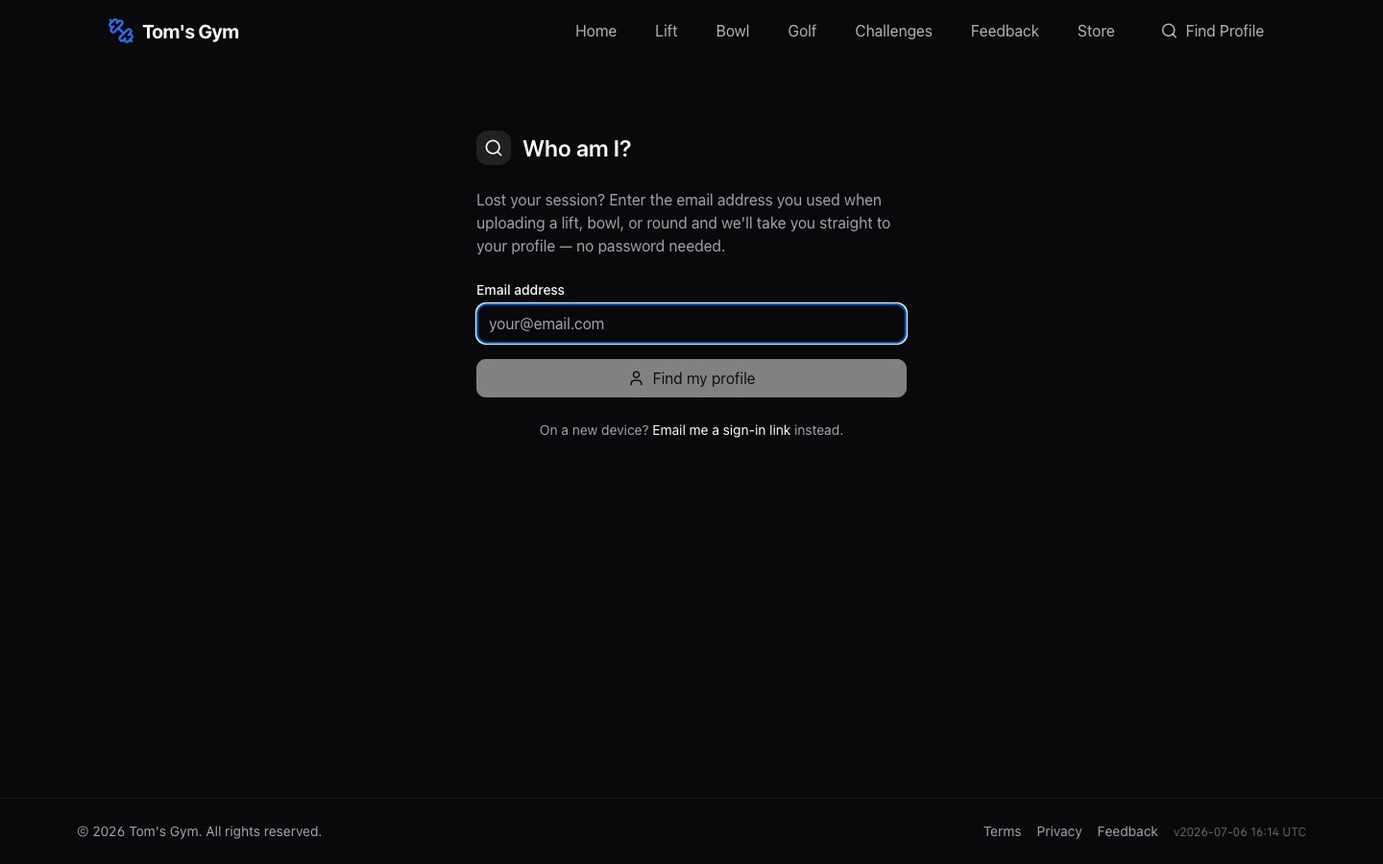
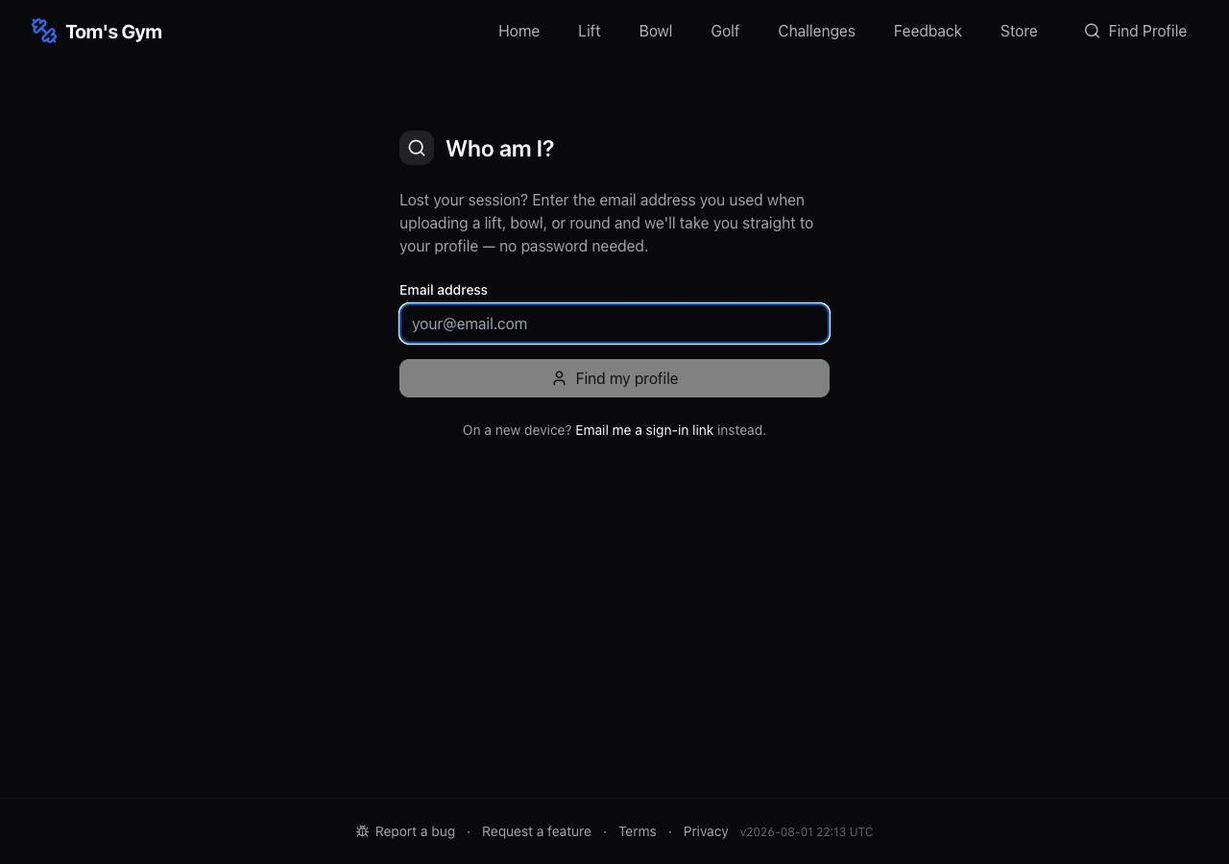
docs(site-map): re-walk production UI on 2026-08-28
Refreshes the 2026-07-06 walk with Playwright captures of every route on
build v2026-08-01, including the pushup challenge, plank steadiness
player, attempt-history accordion, nicknames, champions, and profile tabs.
Adds an observations list of UX inconsistencies found during the walk.

Claude-Session: https://claude.ai/code/session_012iboqMUKF1GY1Dmj7wau93

diff --git a/docs/site-map/README.md b/docs/site-map/README.md
@@ -1,173 +1,146 @@
 # Tom's Gym — Site Walk & Workflow Map
 
-Captured 2026-07-06 against production (`https://my-frontend-quyiiugyoq-ue.a.run.app`, frontend build `v2026-07-06 16:14 UTC`) — **after the UX roadmap shipped** (T1–T16, see `docs/plans/2026-07-06-ux-roadmap.md` and the "UX Roadmap (shipped 2026-07-06)" section of `CLAUDE.md`). Screenshots live in [`screenshots/`](screenshots/); each section links the pages it covers. Earlier revisions of this doc describe the pre-roadmap site — the observations at the bottom that drove the roadmap are now resolved.
+Captured **2026-08-28** against production (`https://my-frontend-quyiiugyoq-ue.a.run.app`, frontend build `v2026-08-01 22:13 UTC`) with Playwright at 1280×900 (plus three 390×844 mobile shots). Screenshots live in [`screenshots/`](screenshots/); each section links the pages it covers. This supersedes the 2026-07-06 walk — everything shipped since (home redesign, plank stats, lift/attempt history, steadiness nicknames, Challenge Champions, Pushup challenge) is reflected below. Feature internals are in `CLAUDE.md`; this doc is the *what a user sees where* view.
 
-> **Post-capture note (2026-08-01):** Challenge Champions shipped after these
-> screenshots were taken. It added **no new routes** — so the route table below
-> is still accurate — but `/` now carries a champion spotlight card, `/profile/:id`
-> a trophy case + champion flair + avatar picker, and `/challenges/:id` a 👑 on the
-> winner's podium chip. See `CLAUDE.md` → "Challenge Champions".
+**Re-capturing:** the walk is a `browser_run_code_unsafe` script that `page.goto`s each route, dumps `h1`/buttons/internal links, and `page.screenshot({fullPage:true})`s into `screenshots/`. Dynamic ids (challenges, videos, profiles) are discovered from the links of the static pages, so the script needs no fixtures.
 
 ## Global Navigation
 
-Every page shares the same navbar and footer:
+Every page shares the same navbar and footer (`components/Layout.tsx`, `Navbar.tsx`):
 
-- **Navbar:** Home `/` · **Lift** `/lift` · **Bowl** `/bowl` · **Golf** `/golf` · Challenges `/challenges` · Feedback `/feedback` · Store `/store` · **Find Profile** (→ full-page `/find-profile`). The three analysis verticals are now top-level hubs; the old bare "Golf → leaderboard" and standalone "Leaderboard" items were folded into the hubs.
-- **Footer:** **Terms** (`/terms`) · **Privacy** (`/privacy`) · Feedback · frontend build stamp (`v2026-07-06 16:14 UTC`). Terms/Privacy are now real pages, not `#` stubs.
+- **Navbar:** Home `/` · Lift `/lift` · Bowl `/bowl` · Golf `/golf` · Challenges `/challenges` · Feedback `/feedback` · Store `/store` · 🔍 Find Profile `/find-profile`. Collapses to a hamburger on mobile ([22](screenshots/22-mobile-home.jpeg)).
+- **Footer:** 🐞 Report a bug · Request a feature (both → `/feedback`) · Terms `/terms` · Privacy `/privacy` · build stamp.
+- **Ambient background** (`AmbientBackground`) is mounted once in `Layout`, so every page shares the doodle wallpaper + drifting glows.
+- Pages that render *without* the Layout chrome: `/signin` (no nav/footer), the bowling annotation workspace (`/bowling/result/:id/annotate` — full-screen tool), and `/does-not-exist`-style 404s (bare "404" + Home link).
 
 ## Route Table (from `frontend/src/routes/index.tsx`)
 
-| Route | Component | Captured |
-|---|---|---|
-| `/` | Index (analysis-first landing) | [01](screenshots/01-home.jpeg) |
-| `/lift` · `/bowl` · `/golf` | LiftHub / BowlHub / GolfHub | [24](screenshots/24-lift-hub.jpeg) · [25](screenshots/25-bowl-hub.jpeg) · [26](screenshots/26-golf-hub.jpeg) |
-| `/upload` | UploadChooser ("What are you analyzing?") | [27](screenshots/27-upload-chooser.jpeg) |
-| `/lift/upload` (`/upload/lift` → redirect) | UploadVideo | [06](screenshots/06-upload-video.jpeg) |
-| `/lift/status/:attemptId` · `/bowling/status/:attemptId` | AnalysisStatus (poll + ETA) | — (live only during processing) |
-| `/challenges` | Challenges | [02](screenshots/02-challenges.jpeg) |
-| `/challenges/:id` | ChallengeDetail (podium fixed) | [03](screenshots/03-challenge-detail.jpeg) |
-| `/challenges/:id/videos` | ChallengeVideos | — |
-| `/challenges/:id/upload` | UploadVideo | [06](screenshots/06-upload-video.jpeg) |
-| `/challenges/:id/participants/:pid/video/:vid` | VideoPlayer (coaching copy + share) | [04](screenshots/04-video-player.jpeg) |
-| `/video-player/:id/:pid/:vid` | VideoPlayerRedirect | — (legacy redirect) |
-| `/s/:code` | ShortLinkRedirect (SPA) / backend OG-meta route | — |
-| `/about` | About | [18](screenshots/18-about.jpeg) |
-| `/leaderboard` | Leaderboard | [05](screenshots/05-leaderboard.jpeg) |
-| `/store` | Store ("coming soon") | [17](screenshots/17-store.jpeg) |
-| `/profile` · `/profile/:id` | Profile (unified Lift/Bowl/Golf hub) | [20](screenshots/20-user-profile.jpeg) |
-| `/find-profile` | FindProfilePage ("Who am I?") | [19](screenshots/19-find-profile-page.jpeg) |
-| `/signin` · `/auth/magic/:token` | SignIn / MagicLink (passwordless) | [28](screenshots/28-signin.jpeg) |
-| `/profile/:id/weekly-lifts` | WeeklyLifts | — |
-| `/auth/callback` · `/auth/error` | AuthCallback / AuthError | — |
-| `/bowling/upload[/:competitionId]` | BowlingUpload | [09](screenshots/09-bowling-upload.jpeg) |
-| `/bowling/result/:attemptId` | BowlingResult (consumer-first, debug behind Advanced) | [08](screenshots/08-bowling-result.jpeg) |
-| `/bowling/result/:attemptId/annotate` | AnnotationWorkspace | [10](screenshots/10-bowling-annotate.jpeg) |
-| `/bowling/challenge/:id` | BowlingChallenge | [07](screenshots/07-bowling-challenge.jpeg) |
-| `/golf/upload` | GolfUpload | [12](screenshots/12-golf-upload.jpeg) |
-| `/golf/review/:roundId` | GolfReview | — (only right after upload) |
-| `/golf/round/:roundId` | GolfRound (share button) | — |
-| `/golf/profile[/:userId]` | GolfProfile (links to unified hub) | [13](screenshots/13-golf-profile.jpeg), [14](screenshots/14-golf-profile-round-expanded.jpeg) |
-| `/golf/leaderboard` | GolfLeaderboard (monthly-delta pill) | [11](screenshots/11-golf-leaderboard.jpeg) |
-| `/feedback` | FileTicket | [15](screenshots/15-feedback-form.jpeg) |
-| `/feedback/list` | TicketList | [16](screenshots/16-feedback-list.jpeg) |
-| `/terms` · `/privacy` | Terms / Privacy | [29](screenshots/29-terms.jpeg) · [30](screenshots/30-privacy.jpeg) |
-| `*` | NotFound | — |
-
-`/athletes` was **removed** (it rendered mock data — deleted with the honest-copy pass).
+| Route | Component | What's there | Captured |
+|---|---|---|---|
+| `/` | Index | hero → DemoLoop → champion spotlight → 3 IconTiles → Open challenges strip | [01](screenshots/01-home.jpeg) · [22 mobile](screenshots/22-mobile-home.jpeg) |
+| `/lift` · `/bowl` · `/golf` | LiftHub / BowlHub / GolfHub | primary Upload CTA + RowCard secondary links | [24](screenshots/24-lift-hub.jpeg) · [25](screenshots/25-bowl-hub.jpeg) · [26](screenshots/26-golf-hub.jpeg) |
+| `/upload` | UploadChooser | "What are you analyzing?" — same 3 tiles as home | [27](screenshots/27-upload-chooser.jpeg) |
+| `/lift/upload` (`/upload/lift` redirects) | UploadVideo | email · lift type (Squat/Bench/Deadlift/Pushup) · weight · video | [06](screenshots/06-upload-video.jpeg) |
+| `/lift/status/:attemptId` · `/bowling/status/:attemptId` | AnalysisStatus | "Queued for analysis" poll page; unknown id = queued state | [44](screenshots/44-lift-status-404.jpeg) · [43](screenshots/43-bowling-status-404.jpeg) |
+| `/challenges` | Challenges | Create Challenge · "Open now" RowCard strip · All challenges + pill filters | [02](screenshots/02-challenges.jpeg) |
+| `/challenges/:id` | ChallengeDetail | podium · chips (👑, nickname, `N attempts ▾`) · "Everyone else" table · YOU row | pushup [03](screenshots/03-challenge-detail-pushup.jpeg) · plank [34](screenshots/34-challenge-detail-a0f2.jpeg) · weight w/ attempts expanded [32](screenshots/32-challenge-detail-plank.jpeg) · [33](screenshots/33-challenge-detail-857f.jpeg) · [47 mobile](screenshots/47-mobile-challenge-pushup.jpeg) |
+| `/challenges/:id/videos` | ChallengeVideos | flat grid of every attempt ("Plank - 60.00kg · date · completed") | [35](screenshots/35-challenge-videos.jpeg) |
+| `/challenges/:id/upload` | UploadVideo | same form, "Back to Challenge" | [36](screenshots/36-challenge-upload.jpeg) |
+| `/challenges/:id/participants/:pid/video/:vid` | VideoPlayer | Original/Annotated · grade · per-lift result body · Share · Re-analyze | plank [04](screenshots/04-video-player.jpeg) · pushup [48](screenshots/48-video-player-pushup.jpeg) · pending [37](screenshots/37-video-player-plank.jpeg) · [23 mobile](screenshots/23-mobile-video-player.jpeg) |
+| `/video-player/:id/:pid/:vid` | VideoPlayerRedirect | legacy → route above | — |
+| `/s/:code` | ShortLinkRedirect | share-link resolver (backend `/s/<code>` serves OG cards to crawlers) | — |
+| `/leaderboard` | Leaderboard | global lifting board, Total/Squat/Bench/Deadlift pills | [05](screenshots/05-leaderboard.jpeg) |
+| `/profile` · `/profile/:id` | Profile | header (avatar, 👑 title) · Trophy case · Lift/Bowl/Golf tabs | [20](screenshots/20-user-profile.jpeg) · [38](screenshots/38-user-profile-bowl-tab.jpeg) · [39](screenshots/39-user-profile-golf-tab.jpeg) · no-id [46](screenshots/46-profile-noid.jpeg) |
+| `/profile/:id/weekly-lifts` | WeeklyLifts | manual weekly-max tracker + chart (empty for most users) | [40](screenshots/40-weekly-lifts.jpeg) |
+| `/find-profile` | FindProfilePage | "Who am I?" email lookup, link to `/signin` | [19](screenshots/19-find-profile-page.jpeg) |
+| `/signin` · `/auth/magic/:token` | SignIn / MagicLink | request / consume magic link | [28](screenshots/28-signin.jpeg) |
+| `/auth/callback` · `/auth/error` | AuthCallback / AuthError | OAuth remnants | — |
+| `/bowling/upload` (`/:competitionId`) | BowlingUpload | email + video | [09](screenshots/09-bowling-upload.jpeg) |
+| `/bowling/challenge/:id` | BowlingChallenge | "All Submissions" cards (board, % detected) | [07](screenshots/07-bowling-challenge.jpeg) |
+| `/bowling/result/:attemptId` | BowlingResult | Entry Board / Pocket / Speed / Hook · Ball Path · Annotate CTA · Advanced | [08](screenshots/08-bowling-result.jpeg) |
+| `/bowling/result/:attemptId/annotate` | AnnotationWorkspace | frame-by-frame ball marking, keyboard-driven | [10](screenshots/10-bowling-annotate.jpeg) |
+| `/golf/upload` · `/golf/snap` | GolfUpload (`autoCamera` on snap) | email + scorecard photo ("Upload from library" / "Capture photo") | [12](screenshots/12-golf-upload.jpeg) · [45](screenshots/45-golf-snap.jpeg) |
+| `/golf/review/:roundId` | GolfReview | OCR review → confirm → HandicapResultCard | — (needs a fresh upload) |
+| `/golf/round/:roundId` | GolfRound | round detail + Share | — (no inbound link on the walked pages; rounds expand inline on the golf profile) |
+| `/golf/leaderboard` | GolfLeaderboard | handicap rows + monthly ▲/▼ pill | [11](screenshots/11-golf-leaderboard.jpeg) |
+| `/golf/profile/:userId` (`/golf/profile` no-id) | GolfProfile | handicap / best diff / last round · expandable round rows | [13](screenshots/13-golf-profile.jpeg) · [42](screenshots/42-golf-profile-noid.jpeg) |
+| `/feedback` · `/feedback/list` | FileTicket / TicketList | bug/feature form · public triage list | [15](screenshots/15-feedback-form.jpeg) · [16](screenshots/16-feedback-list.jpeg) |
+| `/store` · `/about` · `/terms` · `/privacy` | static | | [17](screenshots/17-store.jpeg) · [18](screenshots/18-about.jpeg) · [29](screenshots/29-terms.jpeg) · [30](screenshots/30-privacy.jpeg) |
+| `*` | NotFound | bare "404" | [31](screenshots/31-not-found.jpeg) |
 
 ## Workflows
 
-### 0. First run — pick a vertical, upload, get analysis
+### 0. Entry — home → vertical → upload → status → result
 
 ```mermaid
 flowchart LR
-    H["/ landing\n'Get AI analysis of your lift, bowl, or round'"] --> HUB["/lift · /bowl · /golf\nhub: Upload CTA + leaderboard/recent"]
-    H --> CH["/upload\n'What are you analyzing?'"]
-    HUB --> UP[vertical upload flow]
-    CH --> UP
-    UP -->|processing| ST["/lift/status/:id · /bowling/status/:id\nlive poll + honest ETA + 'we'll email you'"]
-    ST -->|complete| RES[result page]
-    ST -.->|email on complete| MAIL["'Your analysis is ready' + short link /s/:code"]
+    H["/ hero + DemoLoop\n(plank → bowl → scorecard loop)"] --> SP["Champion spotlight\n👑 wonder725 · View profile / Watch the win"]
+    H --> T["3 IconTiles: Lift · Bowl · Golf"]
+    H --> OC["OPEN CHALLENGES strip\n(RowCard per ongoing challenge)"]
+    T --> HUB["/lift · /bowl · /golf hubs"]
+    HUB --> UP["/lift/upload · /bowling/upload · /golf/snap"]
+    UP -->|video| ST["/lift/status/:id · /bowling/status/:id\n'Queued for analysis' · ETA · 'we'll email you'"]
+    ST --> RES[result page]
 ```
 
-- The landing page ([01](screenshots/01-home.jpeg)) now leads with the analysis value prop and three feature cards (Lift / Bowl / Golf) using real annotated-output imagery; challenges are demoted to a lower section.
-- Each hub ([24](screenshots/24-lift-hub.jpeg) · [25](screenshots/25-bowl-hub.jpeg) · [26](screenshots/26-golf-hub.jpeg)) leads with an Upload CTA and links the vertical's leaderboard / recent / challenges.
-- `/upload` ([27](screenshots/27-upload-chooser.jpeg)) is an IA chooser routing to the three (still separate) upload flows.
-- After an upload the user lands on a **status page** (AnalysisStatus) that polls the existing per-attempt result endpoint (404 = queued), shows an honest ETA ("usually ~2 min; long videos up to 10 min"), and survives reload. On completion the backend emails the uploader a short link (skips bot/test users; never blocks completion on SMTP failure).
+- Home ([01](screenshots/01-home.jpeg)) is the quiet-gym redesign: centered column, no photos. Order top→bottom: hero copy → 12s DemoLoop card with 3 dots → champion spotlight card (gold border) → three IconTiles → "OPEN CHALLENGES" strip → "All challenges →".
+- **As of this build the three home tiles link straight to the upload flows** (`/lift/upload`, `/bowling/upload`, `/golf/snap`), while the navbar's Lift/Bowl/Golf go to the hubs. Changed 2026-08-28 (uncommitted at capture time): tiles now go to `/lift` · `/bowl` · `/golf` so both paths land on the same hub. `/upload` ([27](screenshots/27-upload-chooser.jpeg)) still links straight to the upload pages.
+- Hubs ([24](screenshots/24-lift-hub.jpeg)–[26](screenshots/26-golf-hub.jpeg)): one primary CTA + RowCards — Lift: Upload a lift · Leaderboard (+ "Plank challenge" when one is ongoing; none was); Bowl: Upload only; Golf: Snap scorecard · Leaderboard · My golf profile.
+- Status page ([44](screenshots/44-lift-status-404.jpeg)) renders the queued state for any id, including unknown ones (404 from the result endpoint = "in line"), so a bad link never errors — it just polls forever.
 
-### 1. Lifting upload → analysis → video player
+### 1. Lifting: upload → video player
+
+- Upload ([06](screenshots/06-upload-video.jpeg)): email ("No account needed"), lift type select now includes **Pushup**; weight field hides for Plank/Pushup.
+- Player shows a different body per lift type:
+  - **Plank** ([04](screenshots/04-video-player.jpeg)): grade · steadiness score + personality badge (e.g. "Jelly — Chaos, but you held on.") · **Steadiness-over-time chart** (state bands Holding/Settling/Lost you, "tap to jump the video") · Holds strip ("3 runs, longest 273s") · stat tiles (total held, form %, longest unbroken, plank style, pose detection, body line).
+  - **Pushup** ([48](screenshots/48-video-player-pushup.jpeg)): grade + "39 reps detected" · one **SET BREAKDOWN** card (Depth / Control / Elbow Flare / Body Line / Tempo with avg vs target and ▸ coaching lines) · TIPS. No per-rep table.
+  - **Weight lifts** keep per-rep cards; a not-yet-analyzed attempt ([37](screenshots/37-video-player-plank.jpeg), "Toka's snatch · 240 lbs · Pending") shows only an **Analyze Form** CTA.
+- Every player: Original/Annotated toggle, Share (short link), Re-analyze, links back to the challenge and to the athlete's `/profile/:id`.
+
+### 2. Challenges
 
 ```mermaid
 flowchart LR
-    A["/lift/upload\nemail + lift type + weight + video"] -->|POST /upload| B[backend creates user by email\nif needed, stores video, triggers analysis]
-    B --> C[analysis dispatch\nCloud Run Jobs]
-    C --> D["/challenges/:id/participants/:pid/video/:vid\nOriginal / Annotated tabs"]
-    D --> E[Rep breakdown + plain-language coaching\nper failed metric + overall takeaway]
-    D --> F[Share button → short link /s/:code → OG card]
+    CL["/challenges\nOpen now strip + All challenges + pills"] --> CD["/challenges/:id"]
+    CD --> POD["podium (top 3)\n+ chips: 👑 · nickname · 'N attempts ▾'"]
+    CD --> TBL["Everyone else table\nRANK · ATHLETE · REPS|HOLD|TOTAL · CLIP"]
+    CD --> YOU["YOU row → Upload →"]
+    POD -->|chip click| AH["AttemptHistory accordion\ndate · payoff · 🏆 best"]
+    TBL --> VP[video player]
+    CD --> CU["/challenges/:id/upload"]
+    CL --> BC["/bowling/challenge/:id\n(bowling challenges route here)"]
 ```
 
-- Upload is **passwordless**: email only, no account. Lifting upload moved from `/upload` to `/lift/upload` (`/upload` is the chooser).
-- The player ([04](screenshots/04-video-player.jpeg)) shows the Original/Annotated toggle, overall grade, and a per-rep metric breakdown — now with a one-sentence coaching takeaway per failed metric (`lib/liftCoaching.ts`) and a Share button.
-- Very-low-confidence lifting results (plank `pose_detection_rate < 0.25`, or rep lifts with `total_reps === 0`) surface filming tips + an "Upload Again" CTA.
+- `/challenges` ([02](screenshots/02-challenges.jpeg)) at capture: "Open now" RowCard strip, then an "All Challenges" **image-card grid** (Unsplash placeholder photo per challenge). Changed 2026-08-28 (uncommitted): the grid is replaced by the same RowCard list as "Open now", with trailing Open / Preview / Results by status. Four lifting challenges + one bowling challenge (`/bowling/challenge/e93c…`) exist in prod.
+- Three metrics are live, each with its own column header and payoff format: **REPS** (Pushup challenge `4bd57523…`, ongoing, [03](screenshots/03-challenge-detail-pushup.jpeg)), **HOLD** (Summer plank `a0f27fa4…`, [34](screenshots/34-challenge-detail-a0f2.jpeg)) and **TOTAL** weight ([32](screenshots/32-challenge-detail-plank.jpeg), [33](screenshots/33-challenge-detail-857f.jpeg)).
+- Plank boards show **steadiness nicknames** next to names ("💪 The Elusive Steady Eddie", "🌊 One-Shot The Wobbler", "🪼 Human Jellyfish"); ended challenges show 👑 on the winner's podium chip.
+- [32](screenshots/32-challenge-detail-plank.jpeg) has the attempt accordion expanded: rows of date · weight · grade pill, 🏆 on the best, and "—" for an unanalyzed attempt.
+- `/challenges/:id/videos` ([35](screenshots/35-challenge-videos.jpeg)) is an unpolished legacy grid — every plank card reads "Plank - 60.00kg" (weight shown for a bodyweight lift) — reachable only by URL.
 
-### 2. Challenges (lifting competitions)
+### 3. Bowling
+
+- Bowling challenge ([07](screenshots/07-bowling-challenge.jpeg)) lists submissions with "Board: 28 · 48.7% detected" / "No trajectory" and an Upload Video CTA.
+- Result ([08](screenshots/08-bowling-result.jpeg)) leads with Entry Board / Pocket / Ball Speed / Hook tiles (many "—" on low-detection throws), Ball Path, a "Tracking look off?" card → **Annotate Frames**, and an **Advanced** toggle for debug data.
+- Annotation workspace ([10](screenshots/10-bowling-annotate.jpeg)) is a bare full-screen tool (no Layout): play/speed controls, frame markers G/B/P/O, keyboard cheat-sheet footer, Save Trajectory.
+
+### 4. Golf
 
 ```mermaid
 flowchart LR
-    H["/ or /lift hub\nOpen Challenges + Top Lifts This Month"] --> CL["/challenges\nfilter All/Upcoming/Ongoing/Completed"]
-    CL --> CD["/challenges/:id\nparticipants, podium"]
-    CD --> VP[video player]
-    CD -->|Upload Video| U["/challenges/:id/upload"]
+    GH["/golf hub"] --> GS["/golf/snap (auto-opens camera)\n/golf/upload (library)"]
+    GS -->|POST /golf/upload| GR["/golf/review/:roundId"] --> HC[HandicapResultCard]
+    GH --> GL["/golf/leaderboard\nindex + monthly ▲/▼ pill"] --> GP["/golf/profile/:userId\nstats + expandable rounds"]
+    GP <--> P["/profile/:id Golf tab"]
 ```
 
-- "Top Lifts This Month" and all leaderboards now **exclude bot/e2e test accounts** (`User.is_test` flag, migration 013).
-- The challenge **podium is fixed**: it now renders joined entries even before analysis completes (previously showed "No entries yet" because it required `status='completed'`). Verified on `/challenges/d130cc3c…` — the podium shows its real entrant.
-- "How It Works" copy is now honest and passwordless ("No signup — just your email"); fabricated prize pools removed.
+- Upload/snap ([12](screenshots/12-golf-upload.jpeg), [45](screenshots/45-golf-snap.jpeg)) is photo-only: email + "Upload from library" / "Capture photo" / "Analyse scorecard".
+- Leaderboard ([11](screenshots/11-golf-leaderboard.jpeg)) has three golfers; profile ([13](screenshots/13-golf-profile.jpeg)) shows Handicap / Best differential / Last round and round rows that expand inline (score, differential, birdie/bogey/double counts). "Full profile" ↔ `/profile/:id`.
+- `/golf/profile` without an id and no localStorage user shows "No user ID found. Please upload a round first." ([42](screenshots/42-golf-profile-noid.jpeg)).
 
-### 3. Bowling upload → ball-tracking result → annotation
+### 5. Identity & profile
 
-```mermaid
-flowchart LR
-    BC["/bowl hub / /bowling/challenge/:id"] -->|Upload Video| BU["/bowling/upload\nemail + video"]
-    BU -->|status poll| BS["/bowling/status/:attemptId"]
-    BS --> BR["/bowling/result/:attemptId\nconsumer stats + annotated video"]
-    BR -->|Advanced toggle| DBG[debug video, frame counts, px/frame, conf]
-    BR --> AW["/bowling/result/:attemptId/annotate"]
-```
+- `/find-profile` ([19](screenshots/19-find-profile-page.jpeg)) → email lookup → `/profile/:id`; links to `/signin` ([28](screenshots/28-signin.jpeg), magic link, renders without nav).
+- Unified profile ([20](screenshots/20-user-profile.jpeg)): avatar · name · "👑 Summer plank challenge Champion 2026" title · email · joined date · **TROPHY CASE** card ("4:35 · won July 31, 2026 · Open →") · Lift (count) / Bowl / Golf tabs. Lift tab = Competition Stats / Personal Bests / Achievements tiles · "Track Weekly Lifts" card (→ `/profile/:id/weekly-lifts`) · **My lifts** history rows (date · type · `m:ss` hold / grade) · Lift Videos gallery · Competition History; Bowl tab ([38](screenshots/38-user-profile-bowl-tab.jpeg)) = bowling results; Golf tab ([39](screenshots/39-user-profile-golf-tab.jpeg)) = handicap + rounds + "Full golf profile →". Avatar picker appears only for the owner (not captured — anonymous walk).
+- `/profile` with no localStorage user sticks on "Loading profile..." ([46](screenshots/46-profile-noid.jpeg)) — no redirect to find-profile.
+- `/profile/:id/weekly-lifts` ([40](screenshots/40-weekly-lifts.jpeg)) is a manual tracker with an "Add Week" form; empty for every user seen.
 
-- The result page ([08](screenshots/08-bowling-result.jpeg)) now leads with **consumer stats** a bowler cares about — entry board, est. speed, hook direction, pocket hit — plus the annotated video. All engineer internals (frame counts, px/frame, conf values) are behind an **"Advanced"** toggle. The Annotate link stays prominent. *(Screenshot [08] may still show the pre-roadmap debug-first layout — re-capture needs a live prod attempt id.)*
-- Low-detection attempts (`detection_rate < 0.25`) show filming tips + retry CTA.
+### 6. Feedback
 
-### 4. Golf: scorecard photo → OCR review → handicap
+- `/feedback` ([15](screenshots/15-feedback-form.jpeg)): Report a bug / Request a feature toggle + title/description/email. Footer's "Request a feature" link lands with **Report a bug** preselected — a user filed a ticket about exactly this (visible in [16](screenshots/16-feedback-list.jpeg)).
+- `/feedback/list` ([16](screenshots/16-feedback-list.jpeg)): public, unauthenticated triage with Open / In progress / Closed / All tabs; another filed ticket points out anyone can change statuses.
 
-```mermaid
-flowchart LR
-    GL["/golf hub → /golf/leaderboard\nhandicap index + monthly-delta pill"] -->|Log round| GU["/golf/upload\nemail + scorecard photo only"]
-    GU -->|POST /golf/upload\ngrid parser OCR| GR["/golf/review/:roundId\npick row, fix scores, course/tee/date"]
-    GR -->|PUT /golf/round/:id/scores| HS[WHS differential + HandicapSnapshot]
-    HS --> GL
-    GL --> GP["/golf/profile/:userId → links to unified /profile/:id"]
-```
+### 7. Static
 
-- The leaderboard ([11](screenshots/11-golf-leaderboard.jpeg)) now renders a signed ▲/▼ **monthly-delta pill** per row (lower-is-better: negative delta = green improvement; zero/no-data shows nothing).
-- Golf profile links to the unified profile hub and vice-versa.
+Store ([17](screenshots/17-store.jpeg), coming-soon cart), About ([18](screenshots/18-about.jpeg)), Terms ([29](screenshots/29-terms.jpeg)), Privacy ([30](screenshots/30-privacy.jpeg)), 404 ([31](screenshots/31-not-found.jpeg)).
 
-### 5. Identity: passwordless-first
+## Observations from this walk
 
-```mermaid
-flowchart LR
-    FP["/find-profile\n'Who am I?' email lookup"] -->|GET /users/by-email| P["/profile/:id\nLift / Bowl / Golf tabs"]
-    SI["/signin\nemail me a link"] -->|POST /auth/magic-link| MAIL[one-time link]
-    MAIL --> MG["/auth/magic/:token\nrestores localStorage userId (+ JWT)"] --> P
-    UP[any upload flow with email] -->|creates user| P
-```
-
-- **Find Profile** is now a full page ([19](screenshots/19-find-profile-page.jpeg)) reachable from the navbar, not a dialog.
-- **Magic-link sign-in** ([28](screenshots/28-signin.jpeg)): `/signin` requests an email link (`POST /auth/magic-link`, always 200 — no email enumeration); opening `/auth/magic/:token` restores the session on any device (single-use, 15-min expiry, rate-limited). Reachable from the find-profile page.
-- The unified profile ([20](screenshots/20-user-profile.jpeg)) now has **Lift / Bowl / Golf tabs** — one identity across all three sports, cross-linked with the golf profile.
-
-### 6. Feedback / tickets
-
-- `/feedback` ([15](screenshots/15-feedback-form.jpeg)): bug/feature form, auto-attaches localStorage `userId` + referrer, optional email.
-- `/feedback/list` ([16](screenshots/16-feedback-list.jpeg)): public triage list with status tabs + inline status select.
-
-### 7. Static / secondary pages
-
-- **Leaderboard** `/leaderboard` ([05](screenshots/05-leaderboard.jpeg)) — global lifting leaderboard (bot-filtered).
-- **Store** `/store` ([17](screenshots/17-store.jpeg)) — "coming soon", checkout disabled (no fake payment implied).
-- **About** `/about` ([18](screenshots/18-about.jpeg)) — mission + honest passwordless how-it-works.
-- **Terms / Privacy** ([29](screenshots/29-terms.jpeg) · [30](screenshots/30-privacy.jpeg)) — real short pages noting stored email, public visibility of uploads, and a deletion contact.
-
-## Roadmap observations — now resolved
-
-The 2026-07-06 UX roadmap closed the issues the original walk surfaced:
-
-1. ✅ **Analysis features hidden** → top-level Lift / Bowl / Golf hubs + `/upload` chooser; analysis-first landing.
-2. ✅ **Bot/e2e data in prod** → `is_test` flag excludes them from all public leaderboards.
-3. ✅ **Challenge podium mismatch** → podium renders joined entries without requiring completed analysis.
-4. ✅ **Dead-end wait after upload** → status pages with ETA + email-on-complete.
-5. ✅ **Engineer-speak results** → bowling consumer view (debug behind Advanced), lifting coaching copy, low-confidence filming tips.
-6. ✅ **Fragmented identity** → unified `/profile/:id` hub + full-page find-profile + magic-link sign-in.
-7. ✅ **Dishonest copy** → no fake prizes, passwordless messaging, real Terms/Privacy, `/athletes` mock page removed.
-
-Remaining follow-ups (tracked in the plan/CLAUDE.md): emailed short-links (T9) use the frontend origin so they don't unfurl yet — point them at the backend `/s/:code`; the old `FindProfile.tsx` dialog is now dead code. The reliability track (T17) is deferred.
+1. **Home tiles vs nav disagree on where "Lift/Bowl/Golf" goes** (tiles → upload, nav → hub). Fixed locally 2026-08-28, pending deploy.
+2. **`/challenges` "All Challenges" grid** uses stock photos and a heavy card, inconsistent with the RowCard strip above it. Replaced locally 2026-08-28, pending deploy.
+3. **Feedback link preselects the wrong type** from the footer's "Request a feature" (user-reported ticket).
+4. **`/feedback/list` is public and writable** — anyone can flip statuses (user-reported; known accepted risk in `CLAUDE.md`, but users notice).
+5. **Bad status links poll forever** (`/lift/status/<garbage>` shows "Queued") — no "we can't find this attempt" state.
+6. **`/profile` without a session hangs on "Loading profile..."** instead of sending users to `/find-profile`.
+7. **Video gallery cards say "Plank - 60.00kg"** (a bodyweight lift with the placeholder weight) on `/challenges/:id/videos`, the profile Lift Videos gallery, and Competition History — the list rows already hide it. `/challenges/:id/videos` also has no inbound link — candidate for deletion or a bodyweight-aware label.
+8. **Pending weight-lift attempts** render "Pending" with a manual **Analyze Form** button rather than the status page — the older lift flow never got the T8 treatment.
+9. Golf: no page links to `/golf/round/:id`; rounds only expand inline on the golf profile. Either wire it (share cards exist for it) or drop the route.
